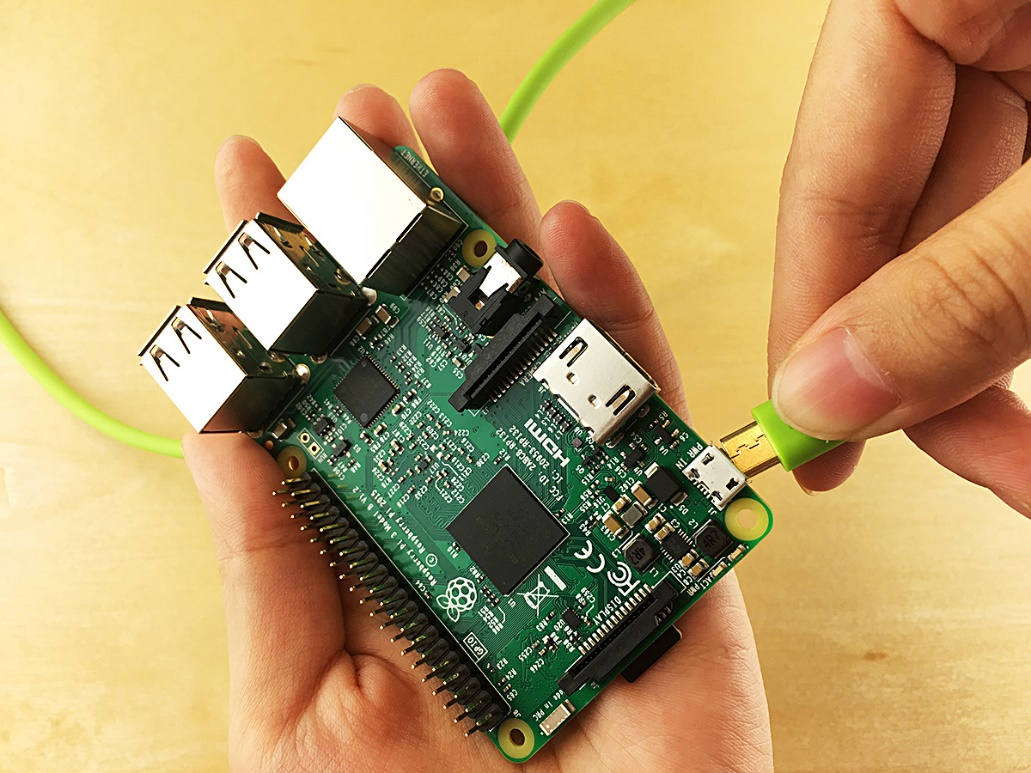
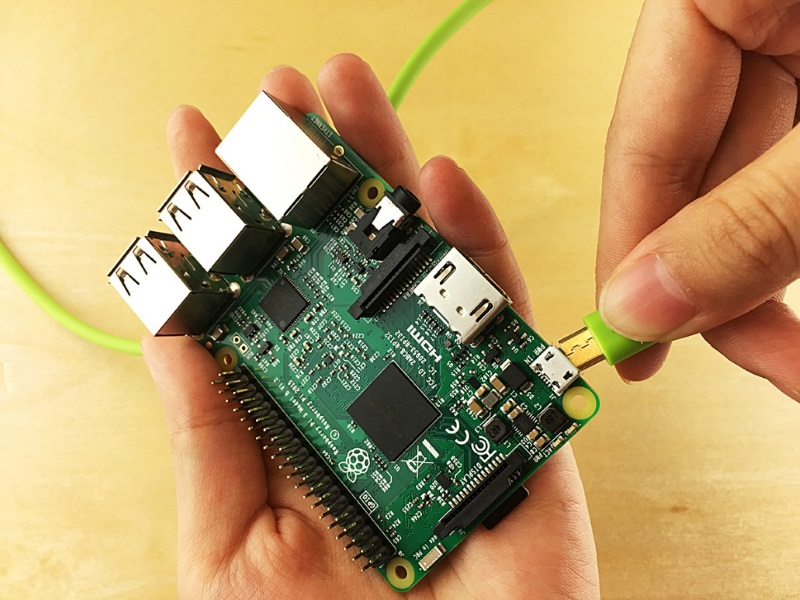
Lab 2 Conf

diff --git a/content/lab-2-configure-your-device-and-get-the-tools.md b/content/lab-2-configure-your-device-and-get-the-tools.md
@@ -83,7 +83,7 @@ To complete this task, use the [breadboard](https://learn.sparkfun.com/tutorials
 * Connect the longer leg of the LED to one leg of the resistor.
 * Connect the other leg of the resistor to GPIO 4 (Pin 7).
 
-> that the LED polarity is important. This polarity setting is commonly known as Active Low.
+> Note that the LED polarity is important. This polarity setting is commonly known as Active Low.
 
 ![Lab2 Material][lab2-pinout-breadboard]
 
@@ -101,9 +101,9 @@ Use [gulp.js](http://gulpjs.com/) to automate the deployment of the sample appli
 
 Start a command prompt as an administrator. Install **gulp** and **device-discovery-cli** by running the following command:
 
-´´´
+```bash
 npm install -g device-discovery-cli gulp
-´´´
+```
 
 ### Install Visual Studio Code
 [Download](https://code.visualstudio.com/docs/setup/windows) and install Visual Studio Code. Visual Studio Code is a lightweight but powerful source code editor for Windows, Linux, and macOS. You use this editor later in the tutorial to edit the sample code.
@@ -129,7 +129,7 @@ Back to [IoT Labs homepage](/readme.md#labs)
 
 [lab2-material]: /images/lab2_starter-kit.jpg "Lab 2 Material"
 [lab2-sdcard]: /images/lab2_sdcard.jpg "Lab 2 Insert SD Card"
-[lab2-power]: /images/lab2-power.jpg "Lab 2 Turn on you Rpi3"
+[lab2-power]: /images/lab2_micro-usb-power-on.jpg "Lab 2 Turn on you Rpi3"
 [lab2-connect-ethernet]: /images/lab2_connect-ethernet.jpg "Lab 2 Connect ethernet"
 [lab2-breadboard]: /images/lab2_breadboard-led-resistor.jpg "Lab 2 Breadboard"
 [lab2-pinout-breadboard]: /images/lab2_pinout-breadboard.png "Lab 2 Pinout"
